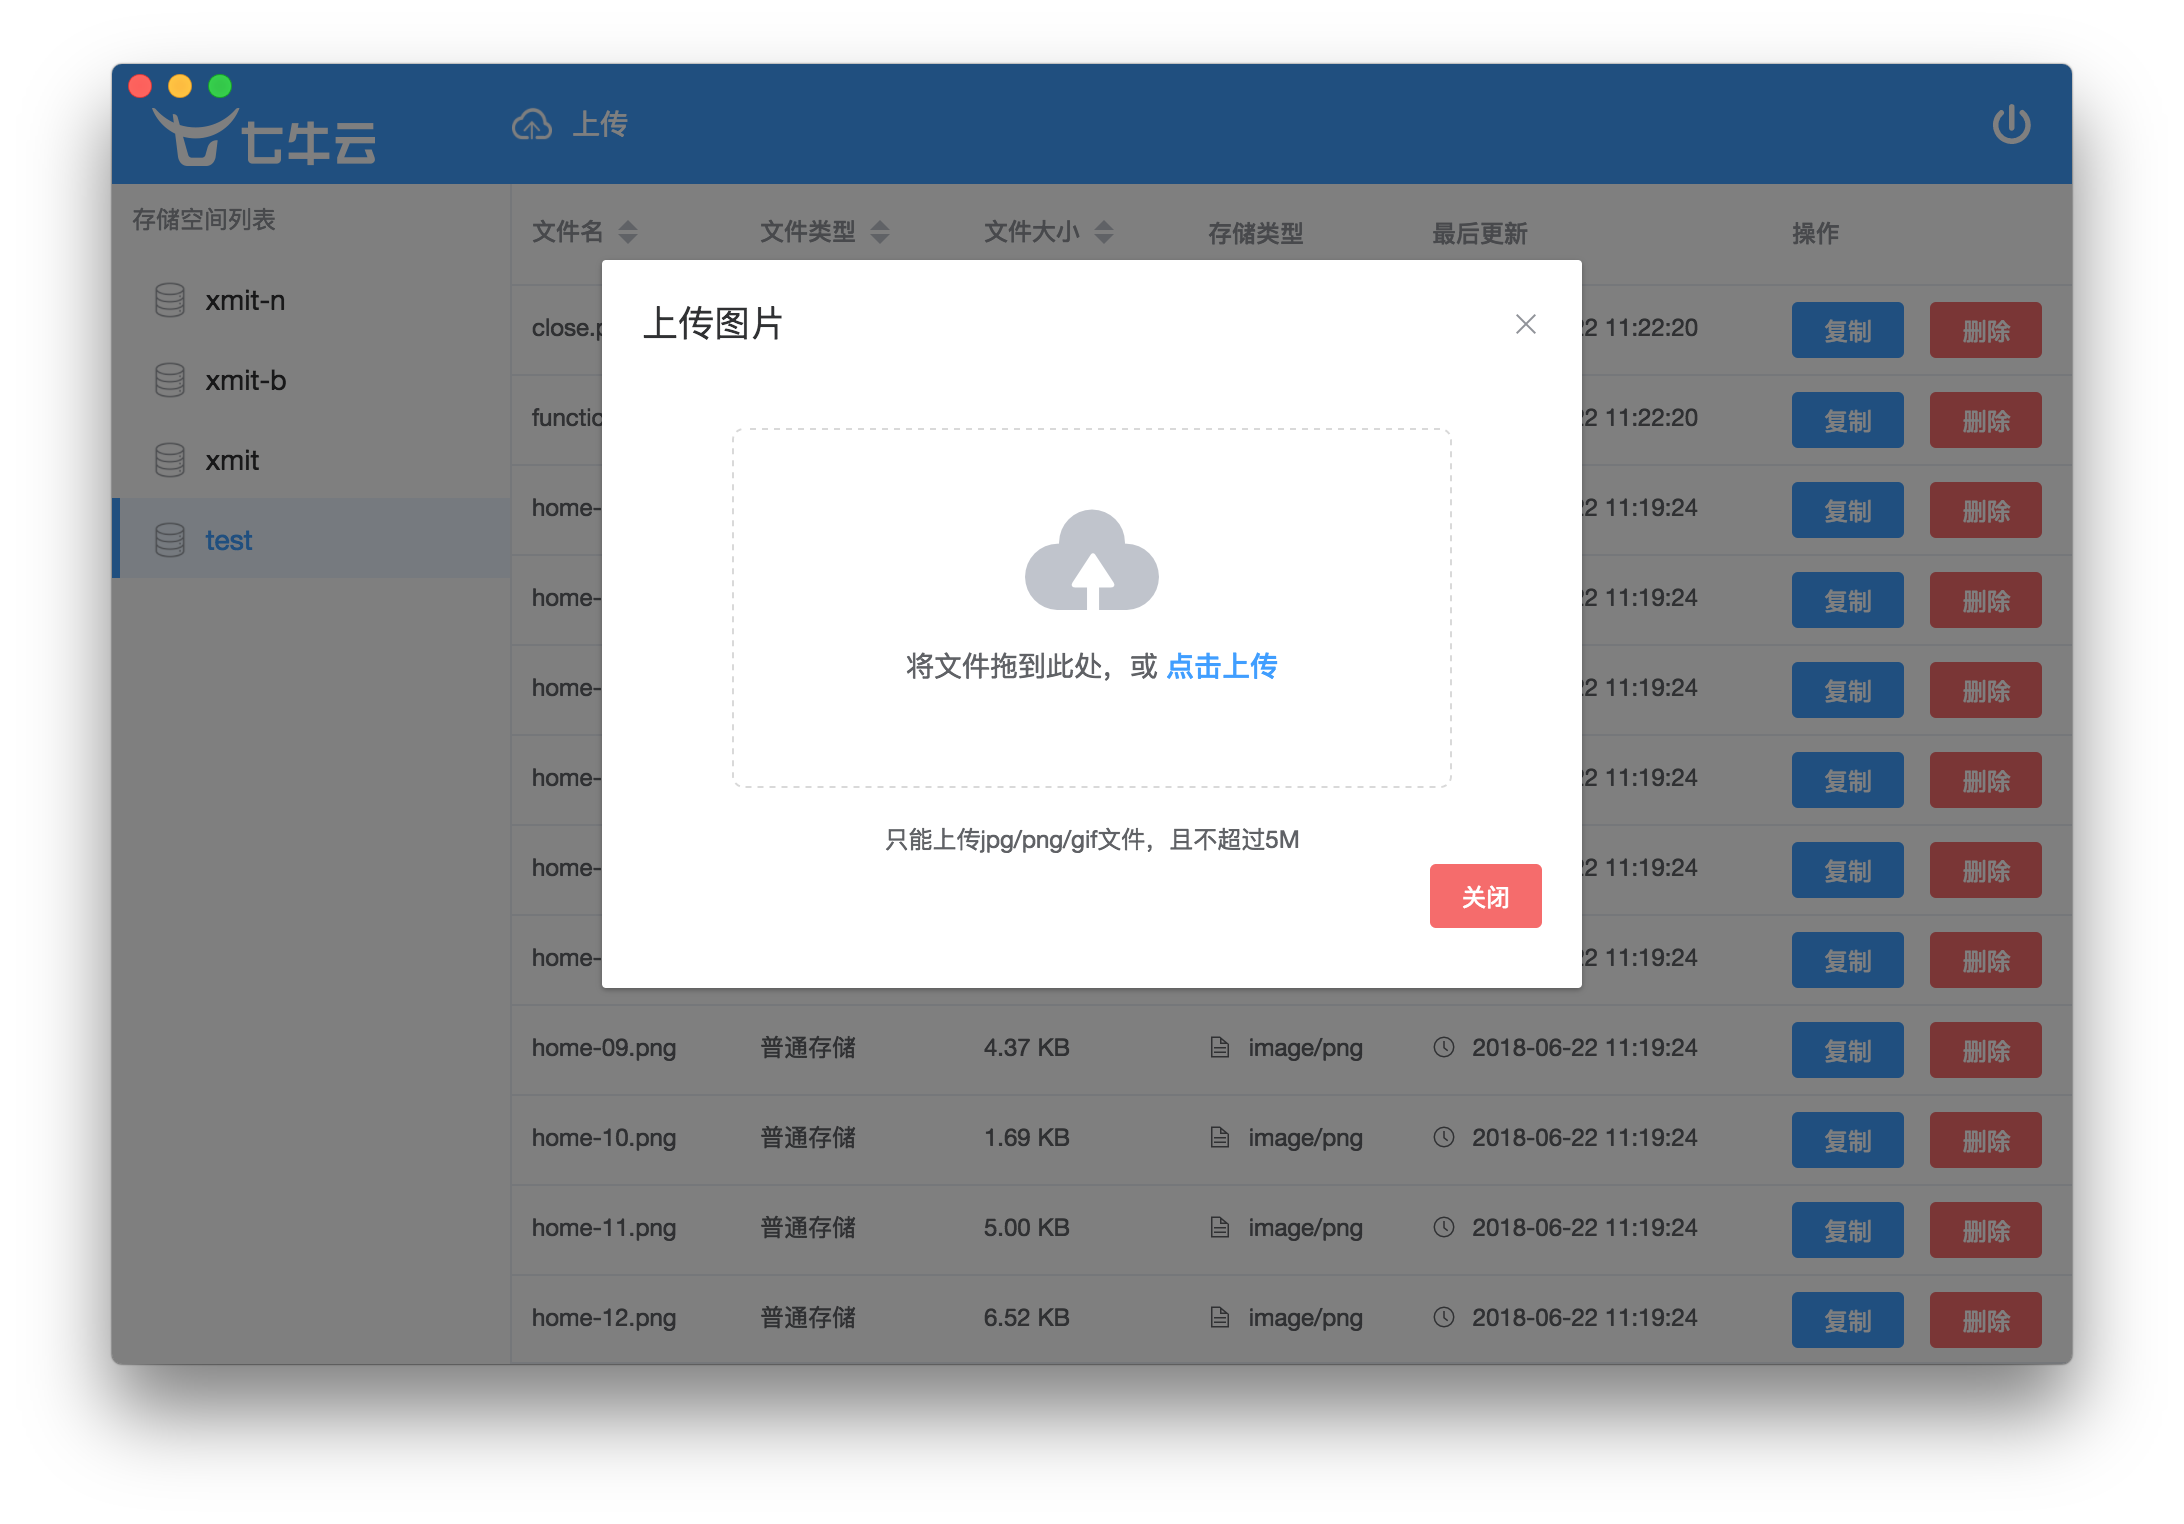
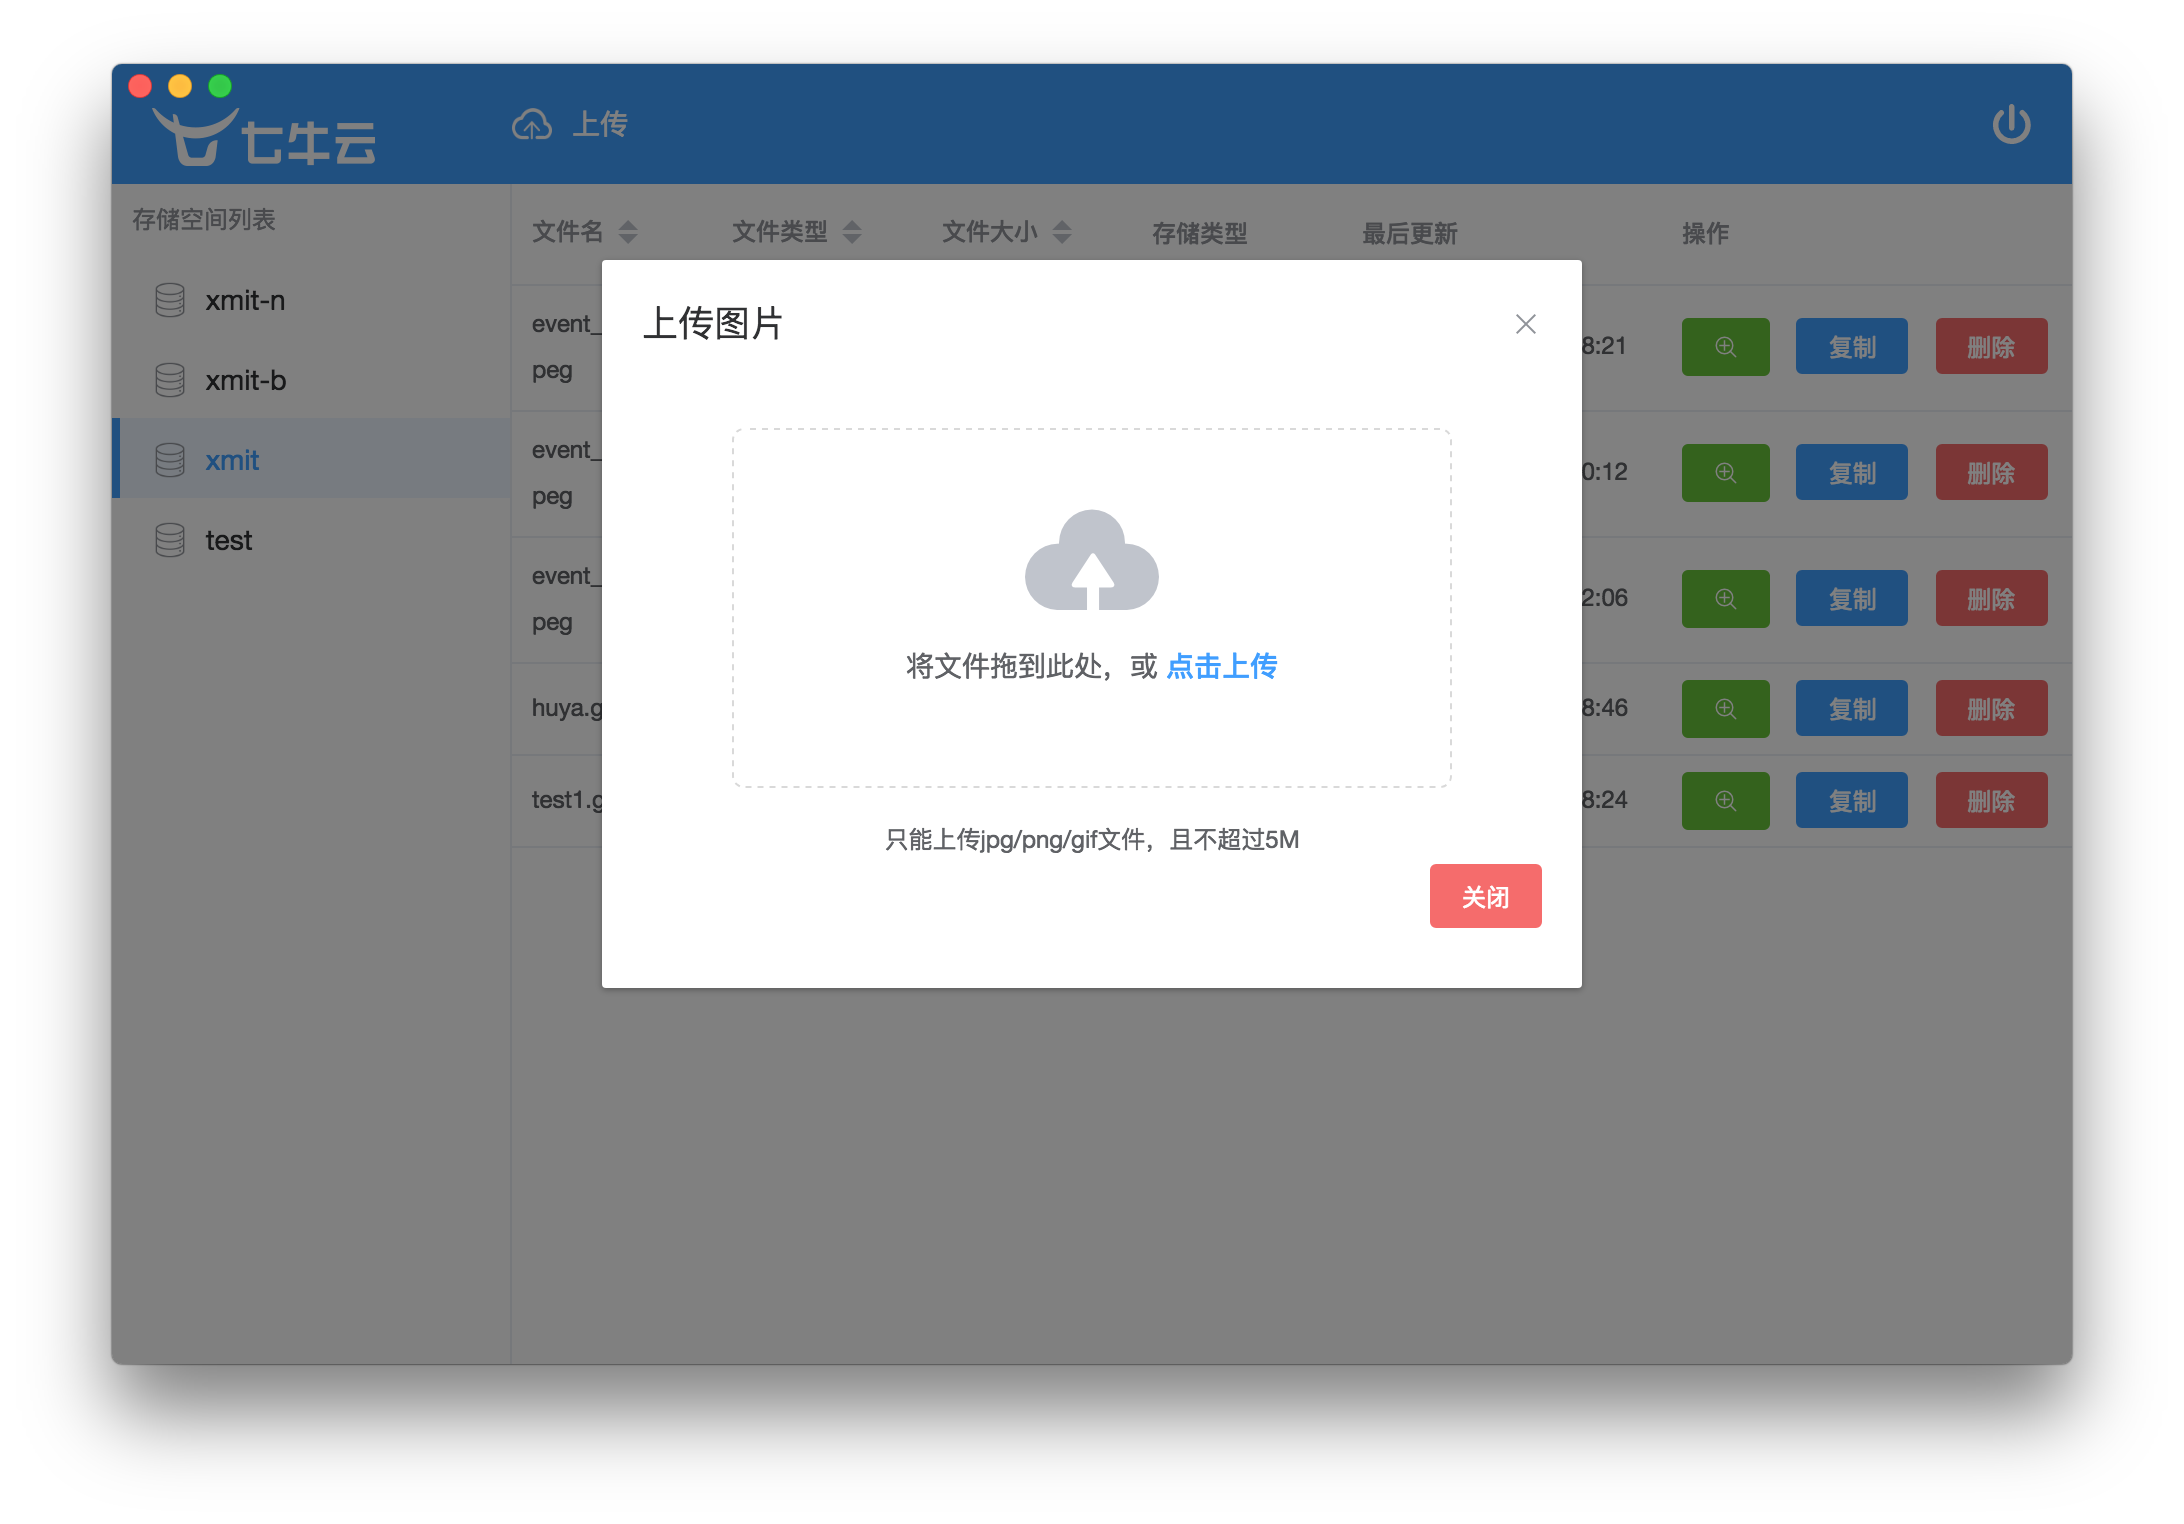
新增存储空间添加和删除功能

diff --git a/src/renderer/components/Bucket.vue b/src/renderer/components/Bucket.vue
@@ -12,11 +12,14 @@
       </el-header>
       <el-container>
         <el-aside width="200px">
-          <h4 class="title">存储空间列表</h4>
+          <h4 class="title">存储空间列表
+            <i class="el-icon-plus add" @click="addDialogVisible = true"></i>
+          </h4>
           <el-menu default-active="0" class="el-menu-vertical-demo">
-            <el-menu-item :index="''+index" v-for="(item,index) in options" :key="index" @click="value = item.value">
+            <el-menu-item :index="''+index" v-for="(item,index) in options" :key="index" @click="value = item">
               <i class="icon"></i>
-              <span slot="title">{{item.value}}</span>
+              <span slot="title">{{item}}</span>
+              <i class="el-icon-delete delete" @click.stop.prevent="beforeDelete(item)"></i>
             </el-menu-item>
           </el-menu>
         </el-aside>
@@ -27,6 +30,26 @@
         </el-main>
       </el-container>
     </el-container>
+    <el-dialog title="提示" :visible.sync="addDialogVisible" width="40%">
+      <el-form ref="form" :model="form" label-width="100px">
+        <el-form-item label="存储空间名称">
+          <el-input v-model="form.name"></el-input>
+        </el-form-item>
+        <el-form-item label="存储区域">
+          <el-select v-model="form.region" placeholder="请选择存储区域">
+            <el-option label="华东" value="z0"></el-option>
+            <el-option label="华北" value="z1"></el-option>
+            <el-option label="华南" value="z2"></el-option>
+            <el-option label="北美" value="na0"></el-option>
+            <el-option label="东南亚" value="as0"></el-option>
+          </el-select>
+        </el-form-item>
+      </el-form>
+      <span slot="footer" class="dialog-footer">
+        <el-button size="mini" @click="addDialogVisible = false">取 消</el-button>
+        <el-button size="mini" type="primary" @click="addBucket">确 定</el-button>
+      </span>
+    </el-dialog>
   </section>
 </template>
 
@@ -49,10 +72,110 @@ export default {
         token: ""
       },
       AccessToken: "",
-      action: ""
+      action: "",
+      addDialogVisible: false,
+      form: {
+        name: "",
+        region: ""
+      }
     };
   },
   methods: {
+    deleteBucket(data) {
+      this.AccessToken = qiniu.util.generateAccessToken(
+        this.mac,
+        "http://rs.qbox.me/drop/" + data
+      );
+      let config = {
+        headers: {
+          Authorization: this.AccessToken
+        }
+      };
+      this.myAxios
+        .post("http://rs.qbox.me/drop/" + data, null, config)
+        .then(it => {
+          if (it.status === 200) {
+            this.$message.success("删除成功");
+            this.getBucket();
+          }
+        })
+        .catch(e => {
+          this.$message.error("删除失败");
+        });
+    },
+    beforeDelete(data) {
+      this.$confirm("此操作将永久删除该空间, 是否继续?", "提示", {
+        confirmButtonText: "确定",
+        cancelButtonText: "取消",
+        type: "warning"
+      })
+        .then(() => {
+          this.deleteBucket(data)
+        })
+        .catch(() => {
+          this.$message({
+            type: "info",
+            message: "已取消删除"
+          });
+        });
+    },
+    getBucket() {
+      this.AccessToken = qiniu.util.generateAccessToken(
+        this.mac,
+        "http://rs.qbox.me/buckets"
+      );
+      let config = {
+        headers: {
+          Authorization: this.AccessToken
+        }
+      };
+      this.myAxios
+        .get("http://rs.qbox.me/buckets", config)
+        .then(it => {
+          if (it.data.length) {
+            this.options = it.data;
+          }
+        })
+        .catch(e => {
+          this.$message.error("accessKey 或者 secretKey 错误");
+        });
+    },
+    addBucket() {
+      this.addDialogVisible = false;
+      let EncodedBucketName = qiniu.util.urlsafeBase64Encode(this.form.name);
+      let Region = this.form.region;
+      let addBucketAccessToken = qiniu.util.generateAccessToken(
+        this.mac,
+        "http://rs.qiniu.com/mkbucketv2/" +
+          EncodedBucketName +
+          "/region/" +
+          Region
+      );
+      this.myAxios
+        .post(
+          "http://rs.qiniu.com/mkbucketv2/" +
+            EncodedBucketName +
+            "/region/" +
+            Region,
+          null,
+          {
+            headers: {
+              Authorization: addBucketAccessToken
+            }
+          }
+        )
+        .then(it => {
+          if (it.status === 200) {
+            this.form.name = "";
+            this.form.region = "";
+            this.$message.success("添加成功");
+            this.getBucket();
+          }
+        })
+        .catch(e => {
+          this.$message.error("添加失败");
+        });
+    },
     quit() {
       localStorage.removeItem("obj");
       this.$electron.ipcRenderer.send("status", false);
@@ -60,12 +183,13 @@ export default {
     getBuckets(msg) {
       let list = msg || JSON.parse(localStorage.obj || "[]");
       if (list.buckets) {
-        list.buckets.forEach((it, index) => {
-          let obj = {};
-          obj["label"] = it;
-          obj["value"] = it;
-          this.options.push(obj);
-        });
+        this.options = list.buckets;
+        // list.buckets.forEach((it, index) => {
+        //   let obj = {};
+        //   obj["label"] = it;
+        //   obj["value"] = it;
+        //   this.options.push(obj);
+        // });
       } else {
         console.log("没有新建空间");
       }
@@ -125,14 +249,16 @@ export default {
   mounted() {
     let login = JSON.parse(localStorage.obj || "null");
     if (login) {
-      this.getBuckets(login);
+      // this.getBuckets(login);
       this.mac = login.mac;
+      this.getBucket();
       let value = login.buckets[0];
       this.value = value;
     } else {
       this.$electron.ipcRenderer.on("msg", (event, files) => {
-        this.getBuckets(files);
+        // this.getBuckets(files);
         this.mac = files.mac;
+        this.getBucket();
         let value = files.buckets[0];
         this.value = value;
       });
@@ -155,6 +281,9 @@ export default {
 </script>
 
 <style lang="scss" scoped>
+.el-select {
+  display: block;
+}
 .el-container {
   height: 650px;
   .el-header {
@@ -188,13 +317,28 @@ export default {
     }
   }
   .el-aside {
-    border-right: solid 1px #EBEEF5;
+    border-right: solid 1px #ebeef5;
     background: #fff;
+    .delete {
+      position: absolute;
+      right: 0;
+      top: 12px;
+      color: #f36d6e;
+    }
     .title {
       font-weight: normal;
       font-size: 12px;
       padding: 10px;
       color: #909399;
+      overflow: hidden;
+      .add {
+        float: right;
+        background: #409eff;
+        border-radius: 100%;
+        padding: 2px;
+        color: #fff;
+        cursor: pointer;
+      }
     }
     span {
       overflow: hidden;
@@ -217,6 +361,7 @@ export default {
       .el-submenu__title {
         height: 40px;
         line-height: 40px;
+        position: relative;
       }
       .is-active {
         background-color: #ecf5ff;

diff --git a/README.md b/README.md
@@ -6,9 +6,10 @@
 
 ### 项目截图
 
-![screenshot](./screenshot-01.png)
-![screenshot](./screenshot-02.png)
-![screenshot](./screenshot-03.png)
+![screenshot1](./screenshot-01.png)
+![screenshot2](./screenshot-02.png)
+![screenshot3](./screenshot-03.png)
+![screenshot4](./screenshot-04.png)
 
 ### 构建应用
 
